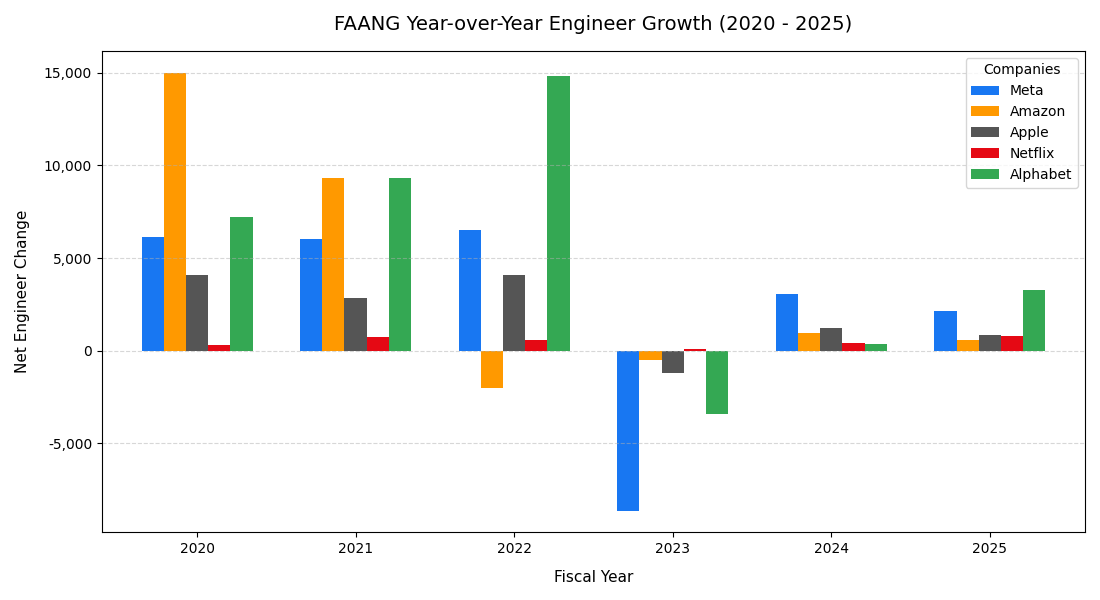
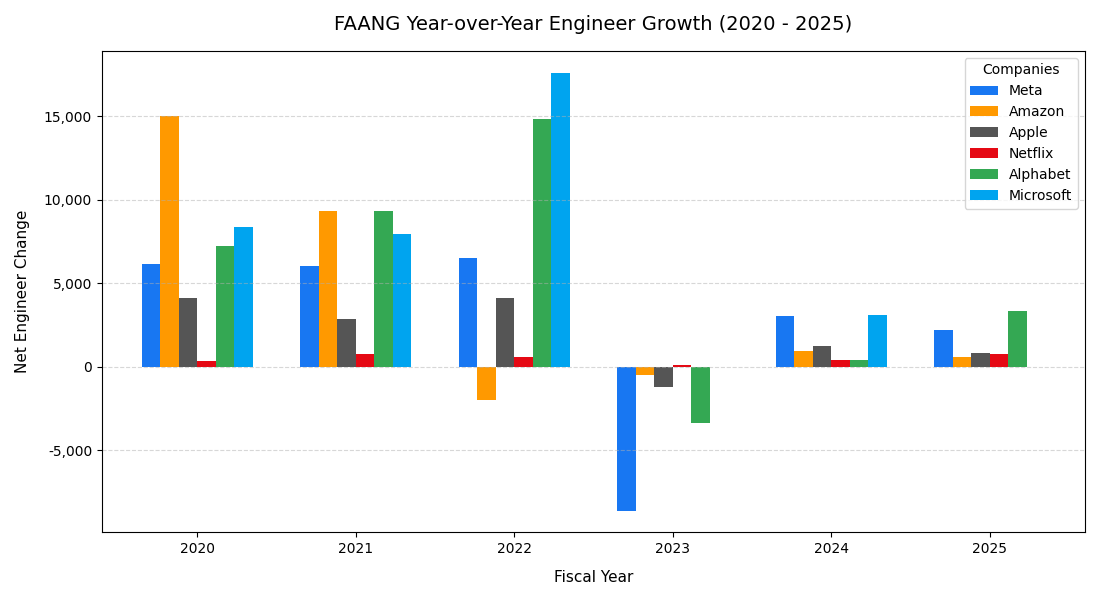
.\FAANG-growth.py

diff --git a/FAANG-growth.py b/FAANG-growth.py
@@ -63,6 +63,24 @@ for idx, row in df.iterrows():
         color=colors[company],
         label=label_with_cagr,
     )
+    
+    # Annotate each point for the company
+    for i, count in enumerate(counts):
+        plt.annotate(f"{count:,}", (years[i], count), textcoords="offset points", xytext=(0, 6), ha='center', fontsize=8, color=colors[company])
+
+# Calculate and plot the total of all companies for each year
+totals = df[years].sum()
+plt.plot(
+    years, 
+    totals, 
+    marker="D", 
+    linewidth=3, 
+    color="black", 
+    linestyle="--",
+    label="Total (All Companies)"
+)
+for i, total_val in enumerate(totals):
+    plt.annotate(f"{total_val:,}", (years[i], total_val), textcoords="offset points", xytext=(0, 8), ha='center', fontsize=9, fontweight='bold')
 
 # 4. Formatter enhancements for readability
 plt.title("FAANG Historical Engineer Headcount Trends (2019 - 2025)", fontsize=14, pad=15)
@@ -75,7 +93,7 @@ plt.gca().get_yaxis().set_major_formatter(
 )
 
 # Optional: Uncomment the next line if you want to inspect growth curves clearly without Amazon skewing the axis
-# plt.yscale('log')
+plt.yscale('log')
 
 plt.grid(True, linestyle="--", alpha=0.5)
 plt.legend(title="Companies", frameon=True, facecolor="white")
